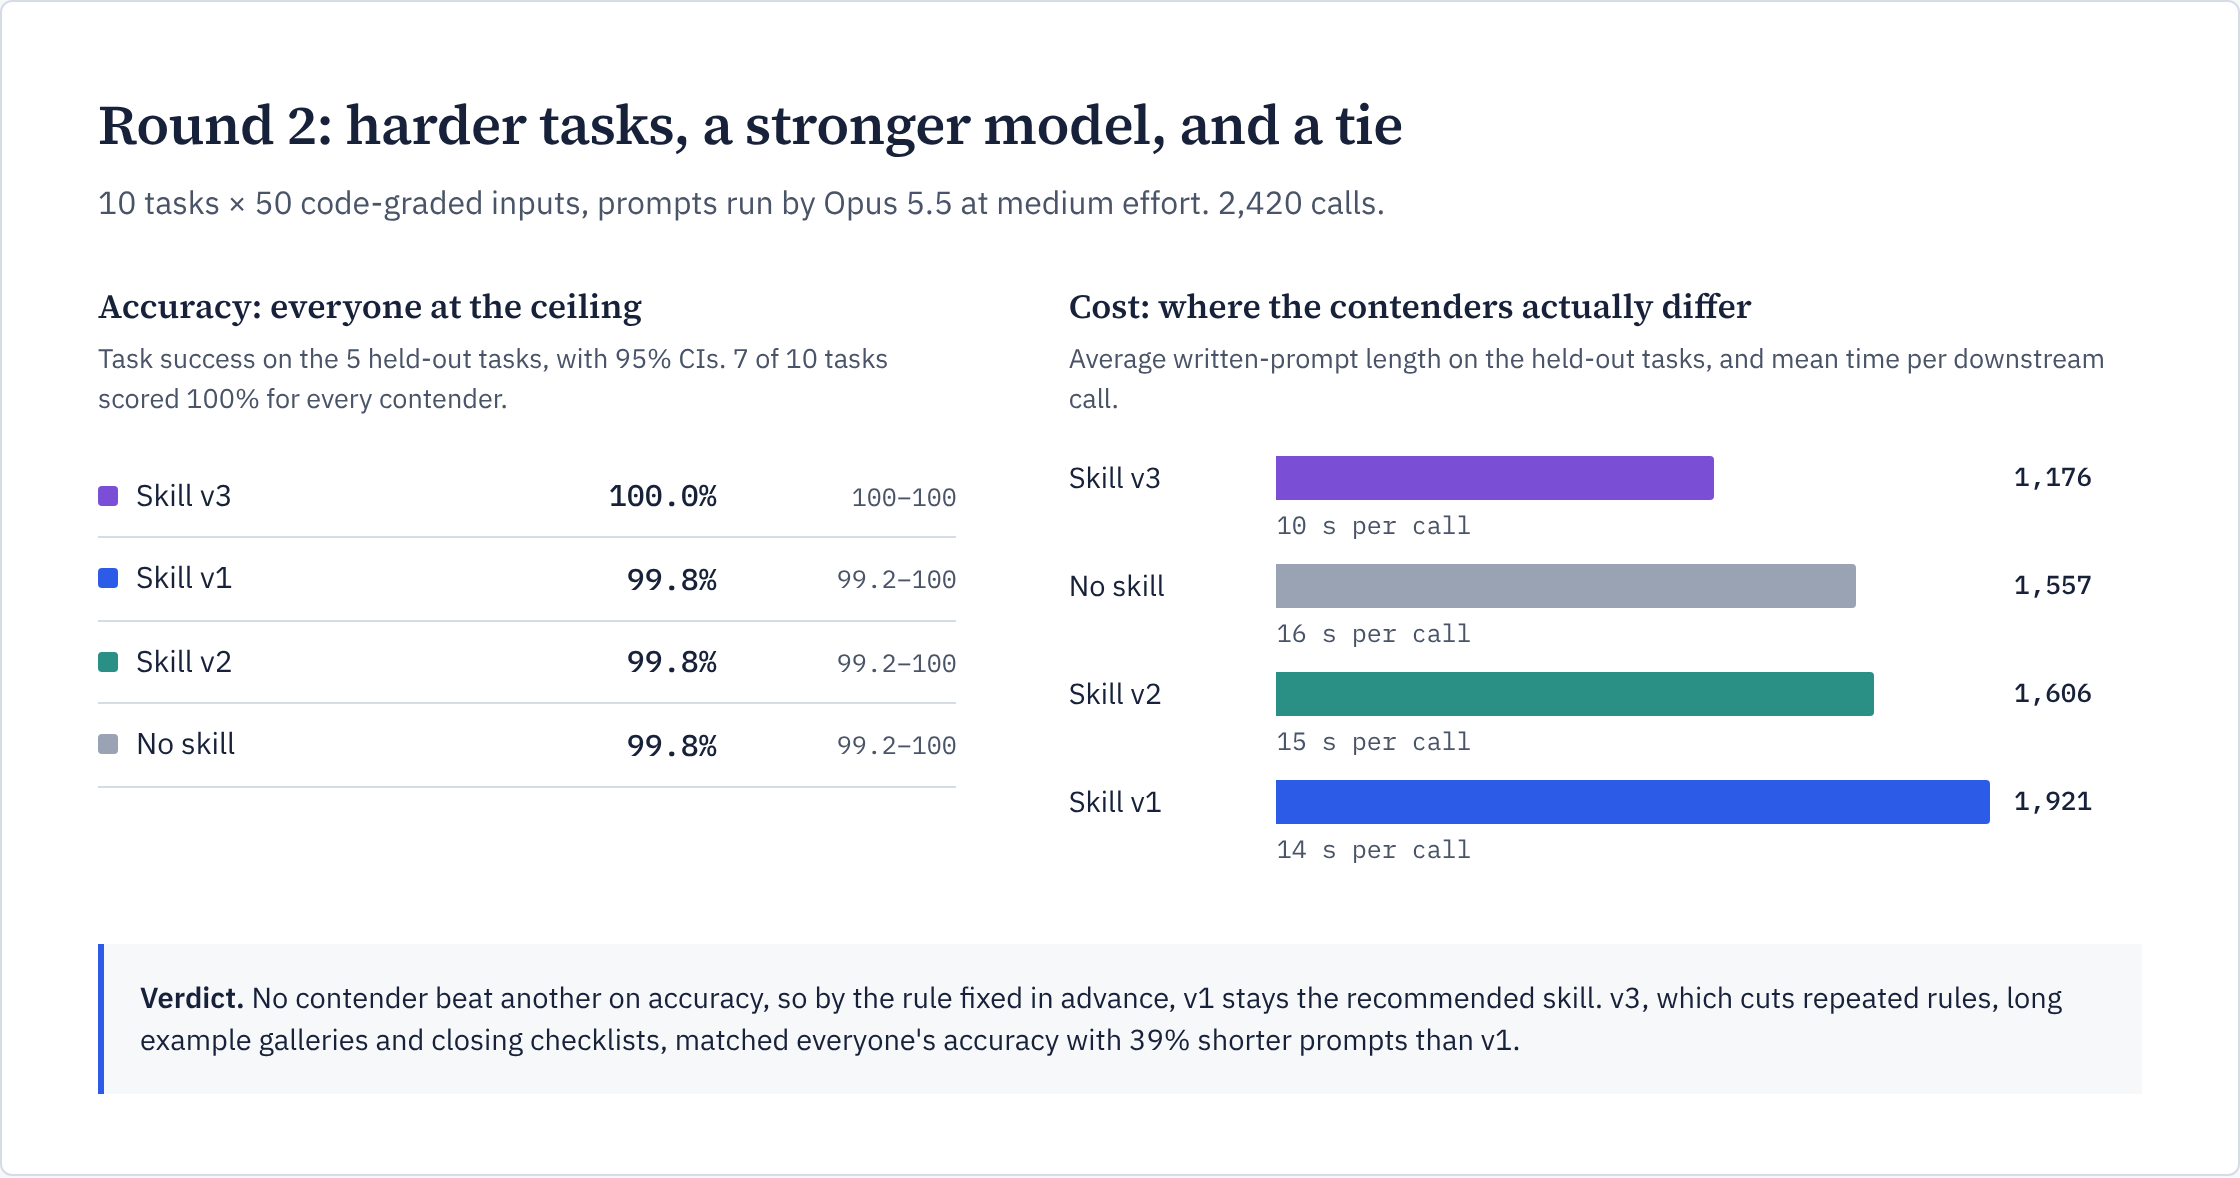
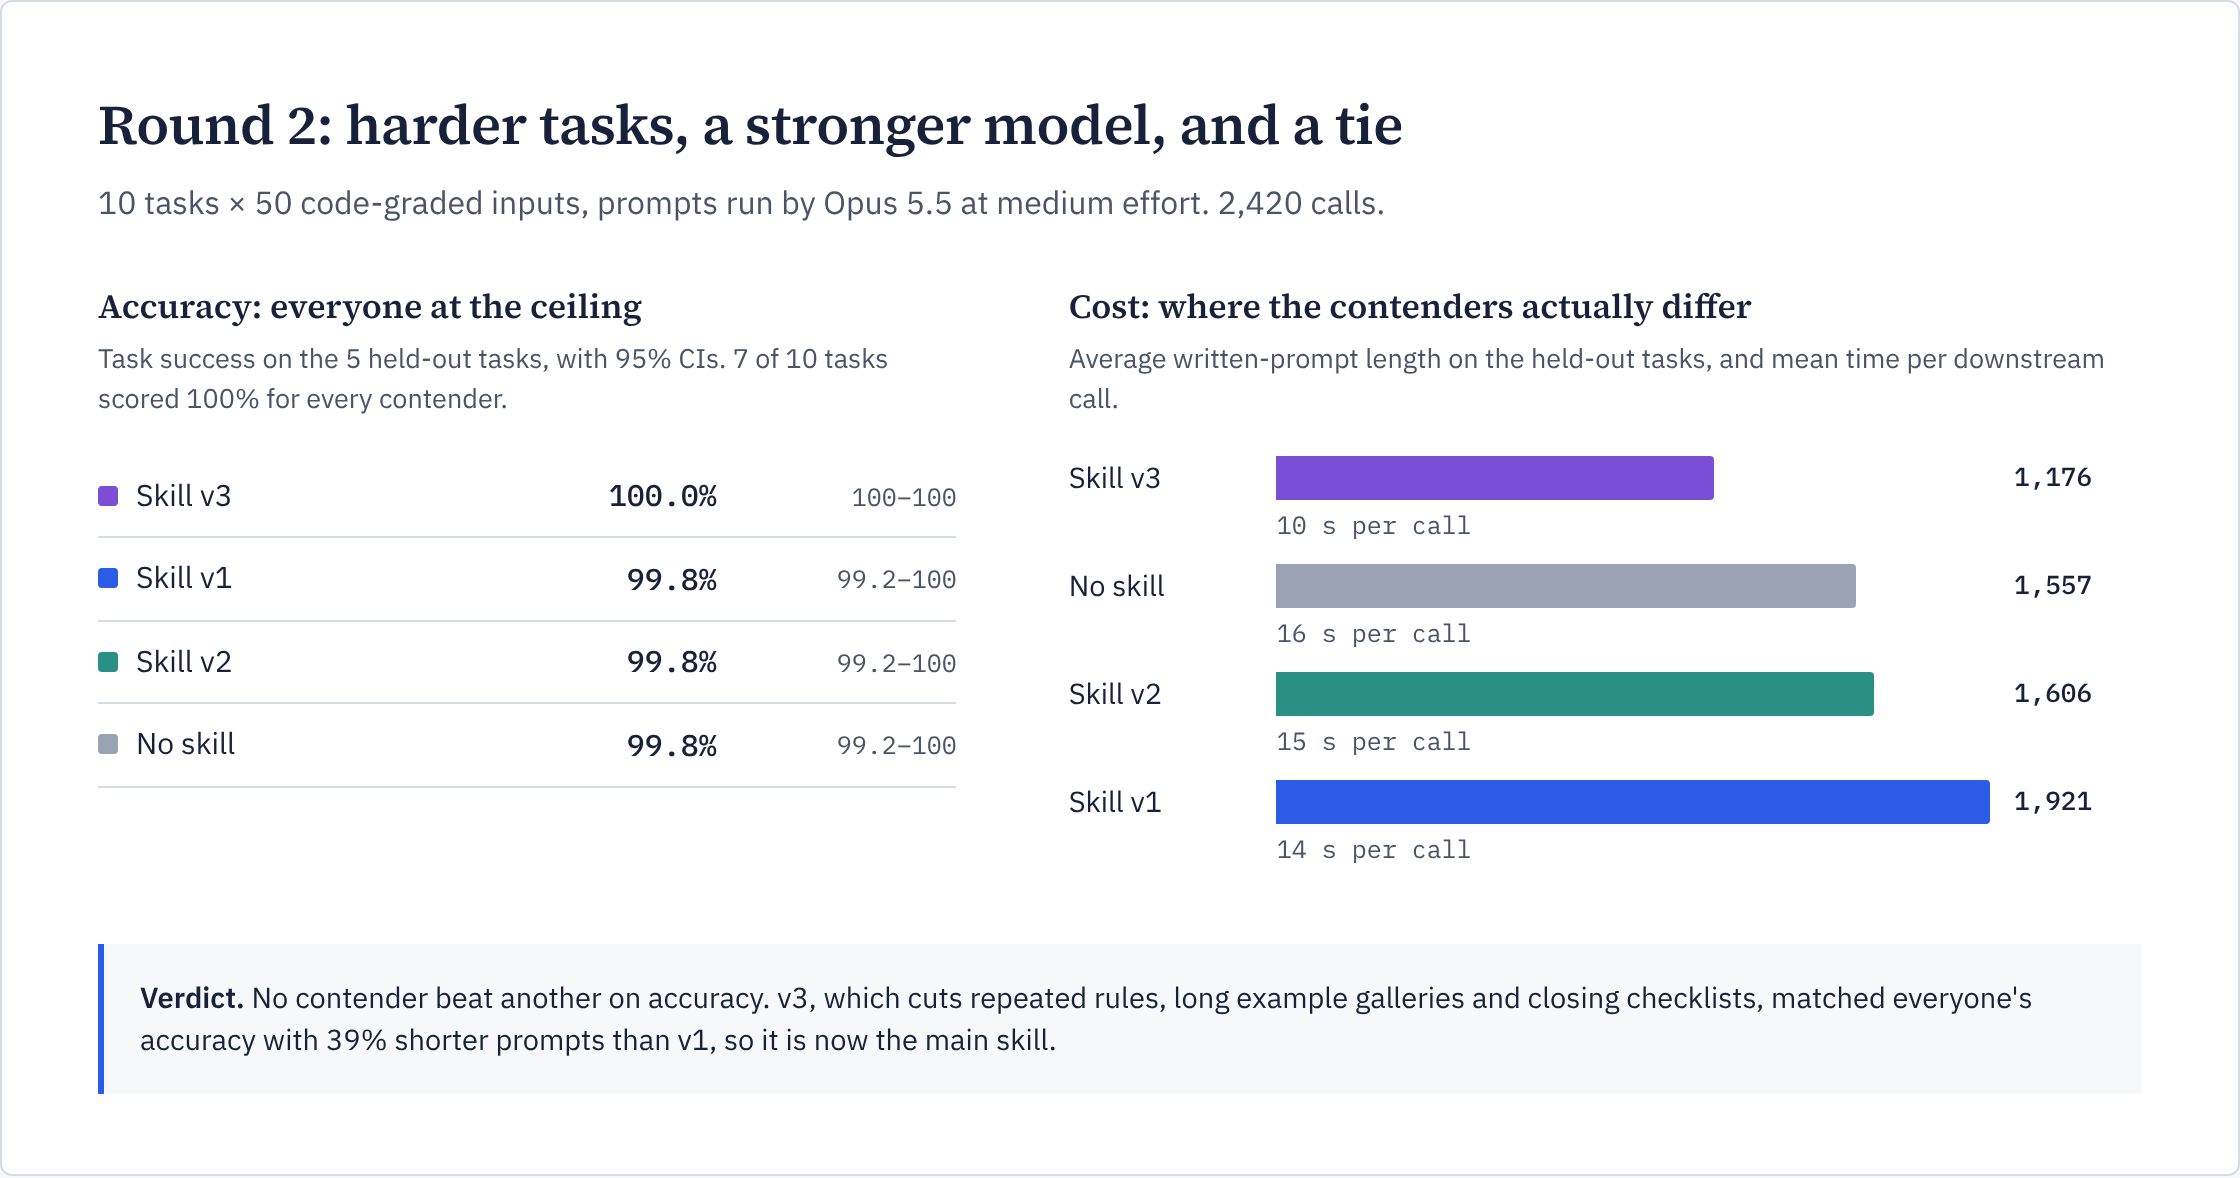
Make skill v3 the main skill
v3 (v1 + concision) tied v1 on round-2 accuracy with 39% shorter prompts and faster
downstream calls. Promoted on cost grounds by the owner; v1 kept in comparison/skill-v1.
README, comparison notes, results and figures updated.

Claude-Session: https://claude.ai/code/session_011dYcdTAMyVUsUW9GoxB6o6

Changed region(s): [[0.0625, 0.8251, 0.9062, 0.9168]]

diff --git a/docs/readme-visuals.html b/docs/readme-visuals.html
@@ -143,8 +143,8 @@
   <h1>One great prompt, turned into a skill that writes the next ones</h1>
   <p class="lede">We took the task prompt MIT CSAIL researchers gave an AI to repair a language model's weights, distilled its structure, packaged it as a Claude skill, and measured whether it makes prompts that work.</p>
   <table>
-    <tr><td>Applies to</td><td>Claude skills, system prompts, agent task briefs</td><td>Status</td><td><span class="lozenge ok">Skill v1 recommended</span></td></tr>
-    <tr><td>Last updated</td><td>7 November 2026</td><td>Evidence</td><td><span class="lozenge info">5 cases, 45 prompts, 261 graded outputs</span></td></tr>
+    <tr><td>Applies to</td><td>Claude skills, system prompts, agent task briefs</td><td>Status</td><td><span class="lozenge ok">Skill v3 is the main skill</span></td></tr>
+    <tr><td>Last updated</td><td>7 November 2026</td><td>Evidence</td><td><span class="lozenge info">2 rounds, 15 tasks, 2,681 graded outputs</span></td></tr>
   </table>
   <div class="strip"></div>
 </figure>
@@ -218,7 +218,7 @@
 <!-- 5. Results -->
 <figure id="results">
   <h2>Results: share of test inputs handled correctly</h2>
-  <div class="legend"><span style="--c: var(--cobalt)">Skill v1 (recommended)</span><span style="--c: var(--sea)">Skill v2 (+ Opus 5 guidance)</span><span style="--c: var(--slate)">No skill</span></div>
+  <div class="legend"><span style="--c: var(--cobalt)">Skill v1</span><span style="--c: var(--sea)">Skill v2 (+ Opus 5 guidance)</span><span style="--c: var(--slate)">No skill</span></div>
   <div class="chart" id="chart"></div>
   <div class="takeaways">
     <div><h3>v1 helps most where rules are strict</h3><p>Sales email went from 58% to 100%: every email under 120 words with one next step.</p></div>
@@ -252,7 +252,7 @@
       <div class="lenrow"><span>Skill v1</span><div class="lenbar" style="width:100%;background:var(--cobalt)"></div><span class="w">1,921</span><span class="s">14 s per call</span></div>
     </div>
   </div>
-  <div class="verdict"><b>Verdict.</b> No contender beat another on accuracy, so by the rule fixed in advance, v1 stays the recommended skill. v3, which cuts repeated rules, long example galleries and closing checklists, matched everyone's accuracy with 39% shorter prompts than v1.</div>
+  <div class="verdict"><b>Verdict.</b> No contender beat another on accuracy. v3, which cuts repeated rules, long example galleries and closing checklists, matched everyone's accuracy with 39% shorter prompts than v1, so it is now the main skill.</div>
 </figure>
 
 <script>

diff --git a/README.md b/README.md
@@ -2,7 +2,7 @@
 
 | | |
 |---|---|
-| **Status** | Skill v1 recommended. Evaluation rounds 1 and 2 complete. |
+| **Status** | Skill v3 is the main skill (promoted after round 2). Evaluation rounds 1 and 2 complete. |
 | **Audience** | Developers who write system prompts, agent instructions or Claude skills |
 | **Reading time** | About 10 minutes. If you only have one, read [the summary](#summary). |
 | **Last updated** | 7 November 2026 |
@@ -109,7 +109,8 @@ The skill lives in [`skills/prompt-writing/SKILL.md`](skills/prompt-writing/SKIL
 1. **Gather the essentials**: objective, success criteria, resources, limits and end state. It asks only about what's missing and matters.
 2. **Size the prompt to the task.** A one-shot task (summarize, classify) gets a short prompt with format and examples. Multi-step or agentic work gets the full skeleton.
 3. **Write or review** the prompt using the principles above, and flag anti-patterns such as vague quality words, hidden success criteria, ALL-CAPS used instead of explanation, and missing stopping conditions.
-4. **Deliver** the prompt in one code block, plus two or three lines on design choices and assumptions to confirm.
+4. **Keep it as short as the rules allow** (added in v3). It states each rule once, gives 2 or 3 examples only where the rules leave doubt, and skips closing checklists that restate the rules.
+5. **Deliver** the prompt in one code block, plus two or three lines on design choices and assumptions to confirm.
 
 **To use it**, add the `skills/prompt-writing` folder as a skill wherever you use Claude (for Claude Code, skills live in a `.claude/skills/` folder). See Anthropic's [skills documentation](https://docs.claude.com) for your setup. Then ask for what you need in plain words, for example "rewrite the system message for our support bot, it keeps inventing policies".
 
@@ -123,7 +124,7 @@ Step by step:
 
 1. **Five realistic requests**, written the way people actually ask: a billing chatbot that invented a refund policy, a review tagger whose output is parsed with `json.loads`, a sales-email GPT with a strict voice and a 120-word limit, a code-review bot that nitpicks formatting, and an unattended overnight ticket-triage agent.
 2. **Claude Opus 5 writes the prompt** three times per request under each of three conditions:
-   - **skill v1**: the skill in this repo
+   - **skill v1**: the first version of the skill (the main skill until round 2)
    - **skill v2**: v1 plus tips from Anthropic's [Prompting Claude Opus 5](https://platform.claude.com/docs/en/build-with-claude/prompt-engineering/prompting-claude-opus-5) guide
    - **no skill**: the baseline
 3. **Claude Haiku 5.5 runs each prompt** on 4 to 8 test inputs built to probe the user's intent. They include a refund request outside the window, a sarcastic review, a prompt injection hidden inside a ticket, an emoji-only review, a demo note with almost no information, and a diff with a real bug among formatting noise.
@@ -184,7 +185,7 @@ Round 1 left two questions open: were the tasks too easy, and were there enough 
 - **Accuracy hit the ceiling.** 7 of 10 tasks scored 100% for every contender on every input. Across 1,950 graded outputs there were only 3 failures, one per contender, and each was a real mistake. Every paired difference was "no detectable difference".
 - **Cost is where the contenders differ, and v1 leans the wrong way.** v1 writes the longest prompts, adding example galleries, failure lists and closing checklists, without gaining accuracy.
 - **v3 fixes that.** It was written from training-task data only. On the held-out tasks it scored 100% with prompts 39% shorter than v1's, and downstream calls averaged 10 s versus 14 s.
-- **By the pre-registered rule, v3 doesn't replace v1**, because it ties on accuracy rather than beating it. If cost matters to you, [`comparison/skill-v3`](comparison/skill-v3/SKILL.md) is the one to use.
+- **v3 is now the main skill.** The pre-registered rule counted only accuracy, where v3 ties with v1 rather than beating it. So promoting v3 was a deliberate owner's decision on cost grounds: same accuracy, shorter prompts, faster calls. v1 is kept in [`comparison/skill-v1`](comparison/skill-v1/SKILL.md).
 
 > [!NOTE]
 > **Self-correction caught a real test bug.** Four refund inputs were failed by every contender. They turned out to contain contradictory data, such as shipping charged on a digital download. The inputs were fixed, and every contender's outputs for them were regenerated. Every plan change and fix is logged in [`evals/round2/CORRECTIONS.md`](evals/round2/CORRECTIONS.md). Full numbers are in [`evals/round2/RESULTS.md`](evals/round2/RESULTS.md).
@@ -193,13 +194,13 @@ Round 1 left two questions open: were the tasks too easy, and were there enough 
 
 1. **Test where prompts still matter.** Run round 2's tasks with smaller deployed models (Haiku, low effort). Round 1 suggests that's where the skill pays off.
 2. **Test requests that leave rules unstated.** In round 2 every request spelled out every rule, so writing the prompt was mostly transcription. Requests that need intent inferred, and multi-turn agents, are the open question.
-3. **Decide on cost.** If a future decision rule counts prompt length, v3 is the natural candidate to replace v1.
+3. **Confirm v3 on smaller models.** v3 was promoted on round-2 evidence (Opus 5.5 running the prompts). Re-running round 1's Haiku setup with v3 would check that shorter prompts don't cost accuracy where prompts matter more.
 4. **Triggering.** Measure whether Claude reaches for the skill without being told, using [`evals/triggering`](evals/triggering).
 
 ## 9. What's in this repo
 
 ```text
-skills/prompt-writing/      the recommended skill (v1)
+skills/prompt-writing/      the main skill (v3)
 comparison/                 v1 vs v2 vs v3 vs no skill: the skills, side-by-side examples, analysis
 evals/quality/              the end-to-end evaluation: cases, harness, every prompt, output and grade
 evals/round2/               round 2: 10 tasks x 50 inputs, runner, reports, corrections, all results

diff --git a/skills/prompt-writing/SKILL.md b/skills/prompt-writing/SKILL.md
@@ -42,13 +42,24 @@ Write each as a short section with a plain header. Each answers one question the
 - **Pair restrictions with permissions.** Every "don't" should leave clear what is still fine.
 - **Prefer positive instructions.** "Write in prose paragraphs" works better than "don't use bullet points".
 - **Exact interfaces.** Show the literal format of tool calls, files and outputs. One correct example beats a description.
-- **Diverse examples.** If you give examples, give several that differ, so the model does not copy one surface pattern.
-- **Name the failure modes.** Tell the model the mistakes this kind of task usually produces.
+- **Examples only where the rules leave a doubt.** Give 2 or 3 short examples, chosen for the cases where a careful reader could still go wrong (a boundary, a precedence clash, an input that should be refused), and make them differ from each other. Don't add examples that only restate a rule already written.
+- **Name a failure mode once, next to its rule.** When a task has a known trap, put one sentence beside the rule it belongs to, not in a separate list that repeats the rules.
 - **Plan for long runs.** For long sessions, ask for a notes file or checkpoints, output-length limits, and backups of good intermediate results.
 - **Define done.** State the deliverable and the final report up front.
 
+### Keep it as short as the rules allow
+
+A capable model follows every rule it is given. It doesn't need a rule repeated, a checklist that restates the rules before it answers, or a long gallery of examples. Those add length and cost to every call, without making answers more correct. In testing, prompts that kept every rule but left out the repetition did just as well.
+
+- State each rule exactly once, in the section where it belongs.
+- Leave out "before you reply, check…" lists that only repeat earlier rules. Keep a check only when it asks for something the rules don't already cover.
+- Put reasons in a clause, not a paragraph.
+- After drafting, cut every sentence whose removal wouldn't change what the model does. The complete set of rules is the floor. Anything above it has to earn its place.
+
 ## 5. Anti-patterns to flag
 
+- Repeating a rule, or restating all of them in a closing checklist.
+- Example sections longer than the rules they illustrate.
 - Vague quality words with no criterion ("thorough", "high quality", "good").
 - Hidden or implied success criteria.
 - Rules with no reason, or rules that contradict each other.

diff --git a/comparison/README.md b/comparison/README.md
@@ -7,10 +7,10 @@ This folder holds the three contenders that were tested against each other, and 
 
 | Contender | What it is | Overall pass rate |
 |---|---|---|
-| [`skill-v1/`](skill-v1/SKILL.md) | The skill distilled from the Astra weight-editing prompt. **Winner**, and identical to [`../skills/prompt-writing`](../skills/prompt-writing/SKILL.md). | **99% ± 1** |
+| [`skill-v1/`](skill-v1/SKILL.md) | The skill distilled from the Astra weight-editing prompt. Won round 1; the main skill until v3 replaced it. | **99% ± 1** |
 | [`skill-v2/`](skill-v2/SKILL.md) | v1 plus a "Writing for current Claude models" section based on Anthropic's [Prompting Claude Opus 5](https://platform.claude.com/docs/en/build-with-claude/prompt-engineering/prompting-claude-opus-5) guide. | 88% ± 6 |
 | No skill | Same model (Claude Opus 5), same request, no skill loaded. The baseline. | 91% ± 5 |
-| [`skill-v3/`](skill-v3/SKILL.md) | v1 plus a "keep it as short as the rules allow" section, written from round-2 training tasks. Added in round 2. | n/a (round 2: 100%, 39% shorter prompts than v1) |
+| [`skill-v3/`](skill-v3/SKILL.md) | v1 plus a "keep it as short as the rules allow" section, written from round-2 training tasks. **The main skill**, identical to [`../skills/prompt-writing`](../skills/prompt-writing/SKILL.md). | n/a (round 2: 100%, 39% shorter prompts than v1) |
 
 Pass rate = share of downstream test inputs handled correctly by a model (Claude Haiku 5.5) running the written prompt, averaged over 15 written prompts per contender. ± is one standard error. Full method: [`../evals/quality`](../evals/quality).
 

diff --git a/evals/round2/RESULTS.md b/evals/round2/RESULTS.md
@@ -1,6 +1,6 @@
 # Round 2 results
 
-**In one paragraph.** We built 10 harder tasks, each with a long rule set, a strict output contract and 50 code-graded inputs (20 standard, 20 edge, 10 adversarial). Opus 5.5 wrote the system prompts, and Opus 5.5 at medium effort ran them. **Every way of writing the prompt reached 99.8–100% task success**, so there is no detectable accuracy difference between skill v1, skill v2 and no skill. The difference that did show up is **cost**. Skill v3, written from training-task data to cut repetition, matched everyone's accuracy with **39% shorter prompts than v1**, and its downstream calls were about **29% faster**. By the decision rule fixed in advance, v3 does not replace v1, because it doesn't *beat* it on accuracy.
+**In one paragraph.** We built 10 harder tasks, each with a long rule set, a strict output contract and 50 code-graded inputs (20 standard, 20 edge, 10 adversarial). Opus 5.5 wrote the system prompts, and Opus 5.5 at medium effort ran them. **Every way of writing the prompt reached 99.8–100% task success**, so there is no detectable accuracy difference between skill v1, skill v2 and no skill. The difference that did show up is **cost**. Skill v3, written from training-task data to cut repetition, matched everyone's accuracy with **39% shorter prompts than v1**, and its downstream calls were about **29% faster**. By the decision rule fixed in advance, v3 doesn't *beat* v1 on accuracy. After the round, the owner promoted v3 to the main skill on cost grounds.
 
 ## What ran
 
